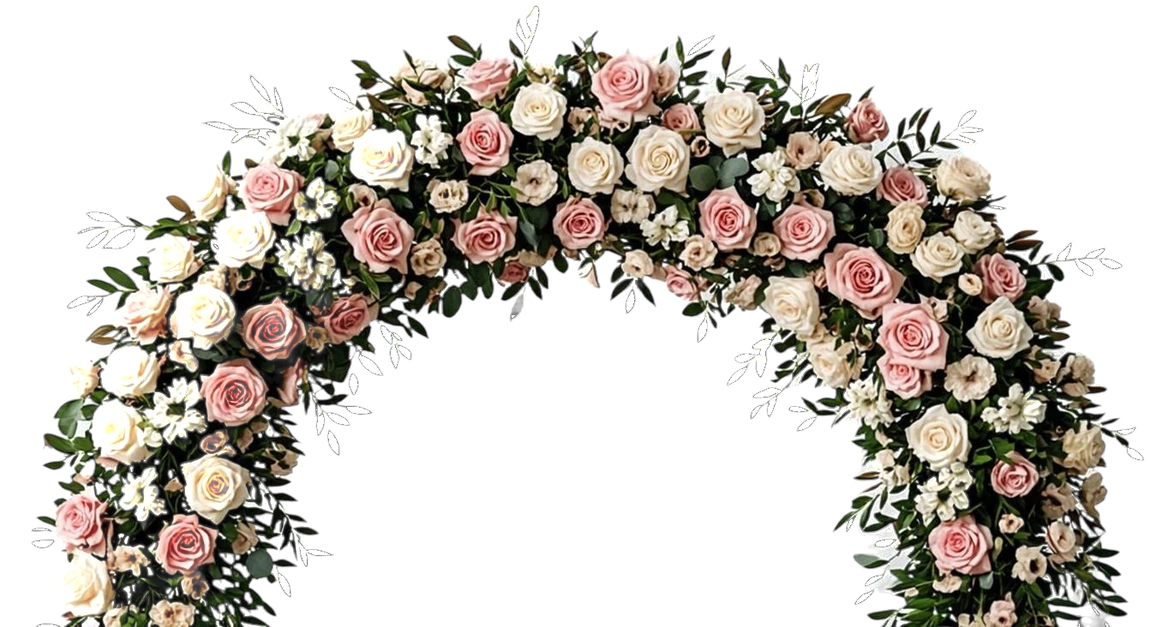
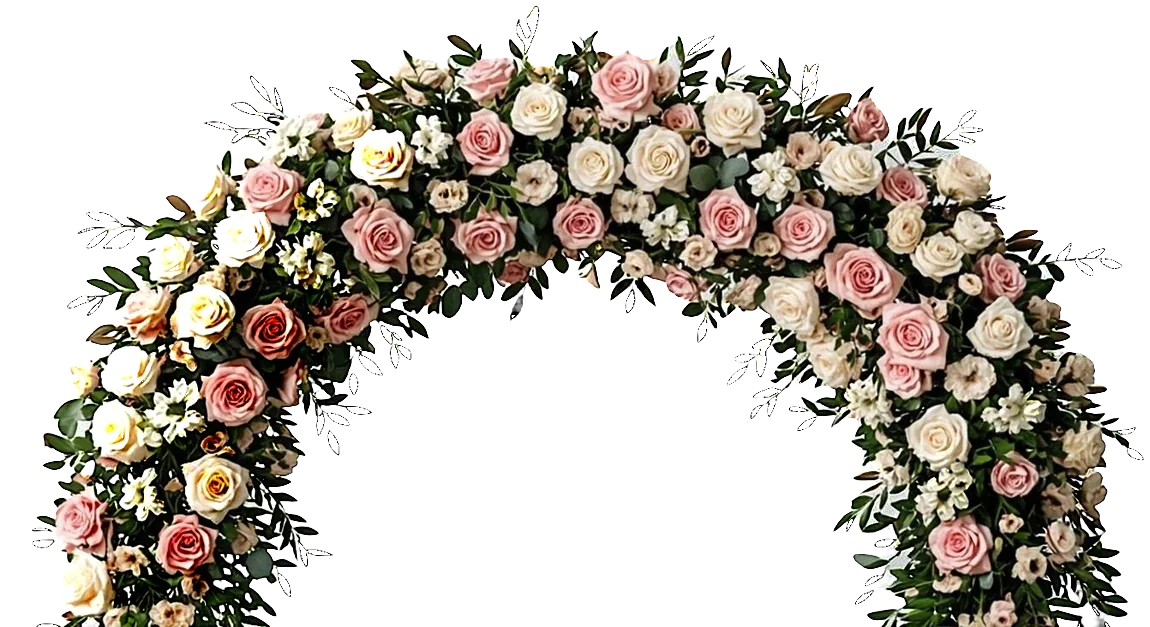
Polish pass: true-alpha matte cleanup on all art, glasshouse window venue arch with mullions and sill, retire RSVP watermark and closing glow plate, align venue sublines, string the itinerary cable between its stars

diff --git a/css/sections.css b/css/sections.css
@@ -963,11 +963,12 @@
   margin-top: clamp(1.8rem, 5vh, 2.8rem);
   list-style: none;
   padding: 0;
-  /* the cable every bulb hangs from */
-  background: linear-gradient(90deg, transparent, var(--gold-line) 12% 88%, transparent);
+  /* the cable every bulb hangs from — strung only between the
+    outermost bulbs, never trailing past them */
+  background: linear-gradient(90deg, var(--gold-line), var(--gold-line));
   background-repeat: no-repeat;
-  background-size: 100% 1px;
-  background-position: 0 15px;
+  background-size: calc(100% - clamp(5.4rem, 16vw, 13rem)) 1px;
+  background-position: center 15px;
 }
 .day-word { display: grid; justify-items: center; gap: .55rem; }
 .day-word__bulb {
@@ -1004,9 +1005,12 @@
   justify-items: center;
 }
 
+/* the glasshouse window — an arched casement with a mullion cross
+   and a gold sill beneath, so it reads as a window and never as a
+   flat rectangle dumped on the page */
 .venue-arch {
   position: relative;
-  width: min(100%, 440px);
+  width: min(86%, 440px);
   display: grid;
   place-items: center;
 }
@@ -1022,26 +1026,70 @@
     linear-gradient(180deg,
       color-mix(in srgb, var(--night-deep) 92%, black) 0%,
       var(--night) 100%);
-  border-radius: 999px 999px 8px 8px;
+  border-radius: 999px 999px 10px 10px;
   box-shadow:
     inset 0 0 0 1px color-mix(in srgb, var(--champagne) 40%, transparent),
+    inset 0 -2px 0 0 color-mix(in srgb, var(--champagne) 30%, transparent),
     0 20px 50px -24px color-mix(in srgb, #1A0E0A 56%, transparent);
+}
+/* mullion cross — a whisper of glazing bars, like the chapel glass */
+.venue-arch::after {
+  content: "";
+  position: absolute;
+  inset: 0;
+  border-radius: 999px 999px 10px 10px;
+  background:
+    linear-gradient(90deg,
+      transparent calc(50% - .5px),
+      color-mix(in srgb, var(--champagne) 22%, transparent) calc(50% - .5px) calc(50% + .5px),
+      transparent calc(50% + .5px)),
+    linear-gradient(180deg,
+      transparent calc(58% - .5px),
+      color-mix(in srgb, var(--champagne) 22%, transparent) calc(58% - .5px) calc(58% + .5px),
+      transparent calc(58% + .5px));
+  pointer-events: none;
+}
+/* the sill the casement rests on */
+.venue-arch .venue-sill {
+  position: absolute;
+  bottom: -7px;
+  left: 50%;
+  transform: translateX(-50%);
+  width: 108%;
+  height: 4px;
+  border-radius: 999px;
+  background: linear-gradient(90deg,
+    transparent 0%,
+    color-mix(in srgb, var(--champagne) 55%, transparent) 16% 84%,
+    transparent 100%);
+  box-shadow: 0 2px 10px color-mix(in srgb, #1A0E0A 30%, transparent);
 }
 .venue-arch__medallion {
   position: absolute;
-  width: 44%;
+  top: 50%;
+  left: 50%;
+  transform: translate(-50%, -50%);
+  width: 47%;
   filter: drop-shadow(0 8px 22px rgba(0, 0, 0, .5));
 }
 
 .venue-description { margin-top: clamp(1.8rem, 4.5vh, 2.4rem); }
 
-.venue-sublines { display: grid; gap: .7rem; }
+/* label and line hang on one another like a pedigree column —
+   the label never drowns and the text never wraps under it */
+.venue-sublines { display: grid; gap: .75rem; justify-items: center; }
 .venue-sublines .sub {
+  display: grid;
+  grid-template-columns: minmax(6.2rem, auto) 1fr;
+  column-gap: .85rem;
+  align-items: baseline;
+  width: min(100%, 46ch);
+  text-align: left;
   font-family: var(--font-body);
   font-size: .95rem;
-  color: var(--ink-soft);
+  color: var(--ink);
 }
-.venue-sublines .sub .label-caps { color: var(--burgundy); margin-right: .4rem; }
+.venue-sublines .sub .label-caps { color: var(--burgundy-deep); }
 .venue-sublines .sub em { font-style: italic; }
 
 .venue-address {
@@ -1147,19 +1195,8 @@
   overflow: hidden;
 }
 
-.watermark-script {
-  position: absolute;
-  right: 1.5rem;
-  bottom: 9%;
-  font-family: var(--font-editorial);
-  font-style: italic;
-  font-size: clamp(3.6rem, 10vw, 6.4rem);
-  line-height: 1;
-  letter-spacing: .04em;
-  color: color-mix(in srgb, var(--burgundy) 5.5%, transparent);
-  pointer-events: none;
-  user-select: none;
-}
+/* the stationer's watermark was retired — the reply scene keeps
+   its quiet paper texture and the flourish inside the card */
 
 .scene--rsvp .scene-body { position: relative; z-index: 1; }
 
@@ -1209,21 +1246,13 @@
   margin: 0 auto clamp(22px, 4vh, 36px);
   pointer-events: none;
 }
-.closing-plate::before {
-  content: "";
-  position: absolute;
-  inset: -10% -18%;
-  background: radial-gradient(50% 46% at 50% 58%,
-    color-mix(in srgb, var(--champagne) 11%, transparent) 0%,
-    color-mix(in srgb, var(--champagne) 4%, transparent) 46%,
-    transparent 72%);
-  z-index: -1;
-}
+/* the glow plate is retired — a rectangle of light always betrays
+   itself on a dark ground; the garland carries its own soft shadow */
 .closing-plate__art {
   display: block;
   width: 100%;
   height: auto;
-  filter: drop-shadow(0 14px 34px color-mix(in srgb, var(--champagne) 26%, transparent));
+  filter: drop-shadow(0 14px 34px color-mix(in srgb, var(--champagne) 18%, transparent));
 }
 
 .closing-bloom--r {

diff --git a/index.html b/index.html
@@ -469,6 +469,7 @@
 
           <div class="venue-stage reveal" data-element-key="venue-ornament">
             <span class="venue-arch" role="img" aria-label="A wreath of eucalyptus and blush roses" data-element-key="venue-arch">
+              <span class="venue-sill" aria-hidden="true"></span>
               <img class="venue-arch__medallion" src="assets/art/wed-wreath-wed.webp" alt="" aria-hidden="true" loading="lazy" decoding="async">
             </span>
           </div>
@@ -523,7 +524,6 @@
 
       <!-- ── Ⅹ · KINDLY RESPOND ─────────────────────────────────── -->
       <section id="rsvp" class="scene scene--rsvp" aria-labelledby="rsvp-title">
-        <span class="watermark-script" aria-hidden="true" data-element-key="rsvp-watermark">Deus caritas est</span>
         <div class="scene-body">
           <div class="rsvp-card reveal">
             <p class="kicker kicker--center kicker--ink" data-content="content.rsvpKicker">Your Reply</p>

diff --git a/css/responsive.css b/css/responsive.css
@@ -46,7 +46,6 @@
   .story-corner { width: clamp(4.8rem, 20vw, 7rem); }
   .count-clock { flex-wrap: wrap; gap: 1.1rem 1.6rem; }
   .count-unit { min-width: 4.4rem; }
-  .watermark-script { font-size: clamp(2.6rem, 12vw, 4.2rem); right: .8rem; bottom: 7%; }
   .std-actions .btn { width: min(280px, 82vw); }
   .day-words { gap: 1rem 1.6rem; }
 }

diff --git a/js/main.js b/js/main.js
@@ -333,7 +333,6 @@
     'day-words': 'The garland of moments',
     'venue-ornament': 'The golden mandap arch',
     'venue-arch': 'The marble arch',
-    'rsvp-watermark': 'RSVP watermark',
     'rsvp-ornament': 'RSVP ornament',
     'countdown-clock': 'Countdown clock',
     'countdown-wreath': 'The shamsa rosette',

diff --git a/js/customizer.js b/js/customizer.js
@@ -111,7 +111,6 @@
     'venue-arch': 'Venue arch',
     'countdown-shamsa': 'Countdown medallion',
     'countdown-clock': 'Countdown clock',
-    'rsvp-watermark': 'RSVP watermark',
     'rsvp-ornament': 'RSVP ornament',
     'closing-swag': 'Closing dome plate',
     'closing-swag-roses': 'Closing roses',
